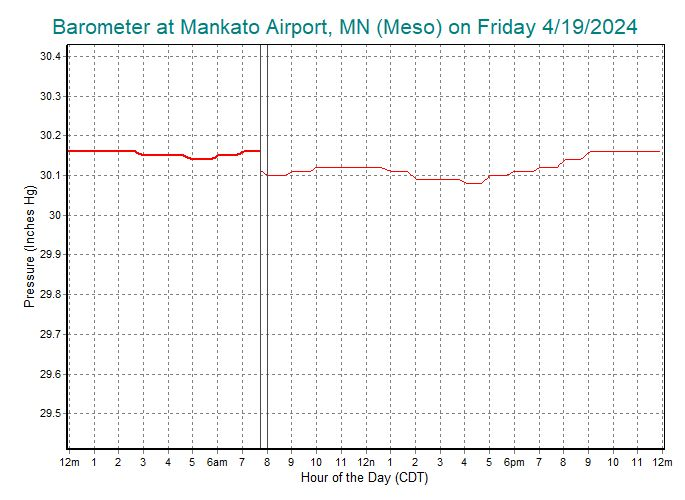
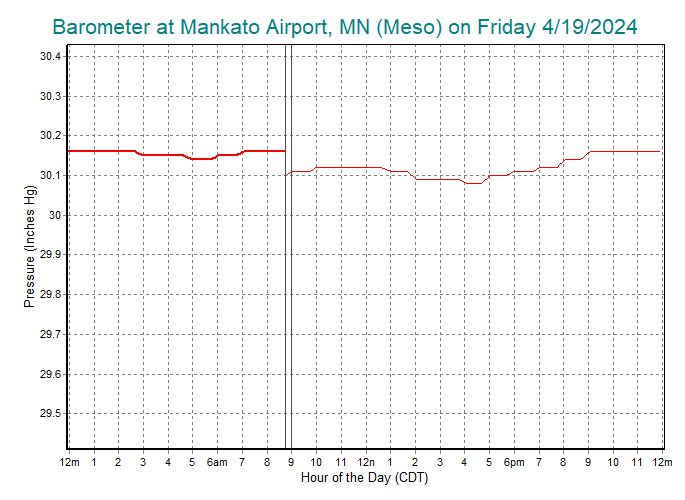
another update

Changed region(s): [[0.3679, 0.27, 0.4292, 0.36]]

diff --git a/charts.html b/charts.html
@@ -88,7 +88,7 @@
 	<p><b><font face="Arial" size="5">Samples from Rosy.asp</font></b></p>
    </div>
    <p><span>
-(24-hour charts updated Friday, April 19, 2024 at 08:00AM Central).
+(24-hour charts updated Friday, April 19, 2024 at 09:00AM Central).
    </span></p>
    <p>The orginal ASP page is named Rosy, a nickname windsurfers from the Tri-Cities gave Roosevelt, a sailing site on the east end of the Columbia River gorge.</p>
 	<p>This first pair of sample charts, wind and temperature, is updated every 

diff --git a/charts_input.html b/charts_input.html
@@ -88,7 +88,7 @@
 	<p><b><font face="Arial" size="5">Samples from Rosy.asp</font></b></p>
    </div>
    <p><span>
-(24-hour charts updated Friday, April 19, 2024 at 08:00AM Central).
+(24-hour charts updated Friday, April 19, 2024 at 09:00AM Central).
    </span></p>
    <p>The orginal ASP page is named Rosy, a nickname windsurfers from the Tri-Cities gave Roosevelt, a sailing site on the east end of the Columbia River gorge.</p>
 	<p>This first pair of sample charts, wind and temperature, is updated every 
